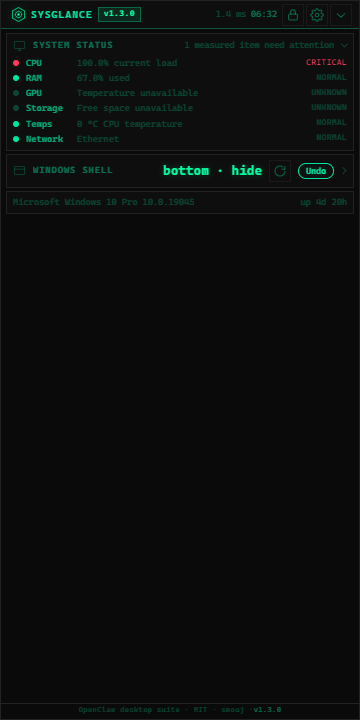
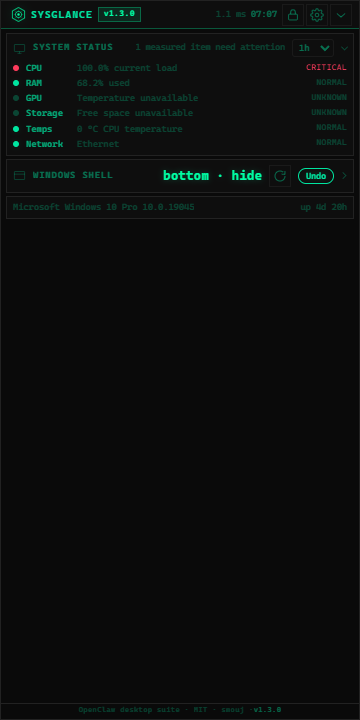
feat: expose selectable local history windows

diff --git a/src/main.js b/src/main.js
@@ -94,6 +94,8 @@ let slowFailedTicks = 0;
 const historyStore = new HistoryStore({ intervalMs: 5000, retentionMs: 24 * 60 * 60 * 1000 });
 const alertEngine = new AlertEngine();
 let lastAnalysisAt = 0;
+let historyWindowMs = 60 * 60 * 1000;
+const HISTORY_WINDOWS = new Set([60 * 1000, 5 * 60 * 1000, 30 * 60 * 1000, 60 * 60 * 1000, 6 * 60 * 60 * 1000, 24 * 60 * 60 * 1000]);
 
 // Renderer-side errors seen in self-test mode.
 const rendererErrors = [];
@@ -755,7 +757,7 @@ function composePayload() {
   }
   payload.health = evaluateHealth(payload);
   payload.alerts = alertEngine.snapshot();
-  payload.history = historyStore.snapshot(60 * 60 * 1000, payload.timestamp);
+  payload.history = historyStore.snapshot(historyWindowMs, payload.timestamp);
   return payload;
 }
 
@@ -832,6 +834,13 @@ function restartDataCollection() {
 // ── IPC ─────────────────────────────────────────────────
 // Every handler validates its arguments: the renderer is untrusted code.
 ipcMain.handle('get-system-data', () => composePayload());
+ipcMain.handle('history:setWindow', (_event, windowMs) => {
+  const value = Number(windowMs);
+  if (!HISTORY_WINDOWS.has(value)) return { ok: false, error: 'unsupported history window' };
+  historyWindowMs = value;
+  broadcastSystemData();
+  return { ok: true, windowMs: historyWindowMs };
+});
 ipcMain.handle('storage:analyzeHome', () => metrics.analyzeFolder(os.homedir(), { maxDepth: 2, maxEntries: 20000 }));
 ipcMain.handle('network:inspect', (_event, force) => metrics.getNetworkDetails(force === true));
 ipcMain.handle('get-app-info', () => ({
@@ -1303,7 +1312,7 @@ async function runSelfTest() {
     if (!Array.isArray(composed.displays) || !composed.displays.length) fail.push('display topology did not produce a display');
 
     const probe = await mainWindow.webContents.executeJavaScript(
-      'JSON.stringify({ api: !!window.sysglance, apiKeys: window.sysglance ? Object.keys(window.sysglance).length : 0, profilesApi: !!(window.sysglance && window.sysglance.profiles), processesApi: !!(window.sysglance && window.sysglance.processes), diagnosticsApi: !!(window.sysglance && window.sysglance.diagnostics), displayOptions: !!document.getElementById("display-options"), palette: !!document.getElementById("command-palette"), versionText: (document.getElementById("app-version") || {}).textContent || null, suiteFooter: ((document.getElementById("suite-footer") || {}).textContent || "").replace(/\\s+/g, " ").trim() || null, shellSection: !!document.getElementById("sec-shell"), cpu: (document.getElementById("cpu-load") || {}).textContent || null })',
+      'JSON.stringify({ api: !!window.sysglance, apiKeys: window.sysglance ? Object.keys(window.sysglance).length : 0, profilesApi: !!(window.sysglance && window.sysglance.profiles), processesApi: !!(window.sysglance && window.sysglance.processes), diagnosticsApi: !!(window.sysglance && window.sysglance.diagnostics), displayOptions: !!document.getElementById("display-options"), historyWindow: !!document.getElementById("history-window"), palette: !!document.getElementById("command-palette"), versionText: (document.getElementById("app-version") || {}).textContent || null, suiteFooter: ((document.getElementById("suite-footer") || {}).textContent || "").replace(/\\s+/g, " ").trim() || null, shellSection: !!document.getElementById("sec-shell"), cpu: (document.getElementById("cpu-load") || {}).textContent || null })',
       true
     );
     const state = JSON.parse(probe);
@@ -1313,6 +1322,7 @@ async function runSelfTest() {
     if (!state.processesApi) fail.push('process actions API missing from preload bridge');
     if (!state.diagnosticsApi) fail.push('diagnostics API missing from preload bridge');
     if (!state.displayOptions) fail.push('display selector missing from settings');
+    if (!state.historyWindow) fail.push('history window selector missing from status');
     if (!state.palette) fail.push('command palette missing from renderer');
     if (!state.shellSection) fail.push('shell panel did not inject');
     if (!/^v?\d+\.\d+\.\d+/.test(String(state.versionText))) fail.push('version not rendered in the UI');

diff --git a/src/renderer.js b/src/renderer.js
@@ -27,7 +27,7 @@
     memPct: $('mem-pct'), memBar: $('mem-bar'), memUsed: $('mem-used'), memSwap: $('mem-swap'),
     gpuLoad: $('gpu-load'), gpuName: $('gpu-name'), gpuBars: $('gpu-bars'),
     fsHome: $('fs-home'), fsFolders: $('fs-folders'), secFs: $('sec-filesystem'),
-    secHealth: $('sec-health'), healthSummary: $('health-summary'), healthList: $('health-list'),
+    secHealth: $('sec-health'), healthSummary: $('health-summary'), healthList: $('health-list'), historyWindow: $('history-window'),
     secGpu: $('sec-gpu'),
     diskList: $('disk-list'), diskActivity: $('disk-activity'), diskActivityValue: $('disk-activity-value'), storageAnalyze: $('storage-analyze'), storageAnalysis: $('storage-analysis'),
     netIface: $('net-iface'), netRx: $('net-rx'), netTx: $('net-tx'), netPeak: $('net-peak'), netSession: $('net-session'), netDetails: $('net-details'),
@@ -375,6 +375,11 @@
       setText(dom.storageAnalysis, details || ('No subfolders found' + (res.truncated ? ' · scan capped' : '')));
     }).catch(function (err) { setText(dom.storageAnalysis, err.message || 'Folder analysis unavailable'); }).finally(function () { dom.storageAnalyze.disabled = false; });
   });
+  if (dom.historyWindow && api.history) dom.historyWindow.addEventListener('change', function () {
+    api.history.setWindow(Number(dom.historyWindow.value)).then(function (res) {
+      if (!res || !res.ok) diagnosticsStatus((res && res.error) || 'History window unavailable', true);
+    }).catch(function (err) { diagnosticsStatus(err.message || 'History window unavailable', true); });
+  });
 
   // ── command palette ──────────────────────────────────
   var PALETTE_COMMANDS = [
@@ -673,6 +678,7 @@
     // Objective system status: each line is backed by a current measurement.
     renderHealth(data.health);
     if (data.history && data.history.series) {
+      if (dom.historyWindow && data.history.windowMs) dom.historyWindow.value = String(data.history.windowMs);
       renderSparkline(dom.cpuSparkline, data.history.series.cpu);
       renderSparkline(dom.memorySparkline, data.history.series.memory);
     }

diff --git a/scripts/verify-health.js b/scripts/verify-health.js
@@ -4,6 +4,8 @@
 const { HistoryStore } = require('../src/history');
 const { AlertEngine } = require('../src/alerts');
 const { evaluateHealth, GB } = require('../src/health');
+const fs = require('fs');
+const path = require('path');
 
 let passed = 0;
 let failed = 0;
@@ -24,6 +26,9 @@ history.record({ cpu: 90 }, 5000);
 check('ring buffer remains bounded', history.buffers.cpu.size <= history.capacity, history.buffers.cpu.size + '/' + history.capacity);
 check('window filters old points', history.series('cpu', 1500, 5000).length === 2);
 check('summary exposes latest average and peak', history.snapshot(5000, 5000).summary.cpu.peak === 90);
+const mainSource = fs.readFileSync(path.join(__dirname, '..', 'src', 'main.js'), 'utf8');
+const rendererSource = fs.readFileSync(path.join(__dirname, '..', 'src', 'renderer.js'), 'utf8');
+check('history exposes the six product windows through a validated bridge', mainSource.includes("history:setWindow") && mainSource.includes('HISTORY_WINDOWS') && rendererSource.includes('history-window'));
 
 const health = evaluateHealth({
   cpu: { load: 93, temp: 88 },

diff --git a/src/index.html b/src/index.html
@@ -218,7 +218,7 @@
 
   <div id="content" class="content">
     <div class="section health-section" id="sec-health">
-      <div class="section-header"><span class="section-icon"><svg class="ic" viewBox="0 0 24 24"><use href="#i-os"/></svg></span><span class="section-title">System status</span><span class="section-note" id="health-summary">Checking…</span></div>
+      <div class="section-header"><span class="section-icon"><svg class="ic" viewBox="0 0 24 24"><use href="#i-os"/></svg></span><span class="section-title">System status</span><span class="section-note" id="health-summary">Checking…</span><select id="history-window" class="history-window" aria-label="History window"><option value="60000">1m</option><option value="300000">5m</option><option value="1800000">30m</option><option value="3600000" selected>1h</option><option value="21600000">6h</option><option value="86400000">24h</option></select></div>
       <div id="health-list" class="health-list"></div>
     </div>
     <div class="section" id="sec-cpu">

diff --git a/src/styles.css b/src/styles.css
@@ -221,6 +221,7 @@ body.unlocked .ic-unlocked{display:block}
 .info-row-secondary{margin-top:3px}
 .info-subtitle{font-size:10px;color:var(--fg-2);white-space:nowrap;overflow:hidden;text-overflow:ellipsis;min-width:0}
 .info-small{font-size:9px;color:var(--fg-4);font-variant-numeric:tabular-nums;white-space:nowrap}
+.history-window{margin-left:auto;min-width:42px;padding:2px 2px;border:1px solid var(--line);border-radius:3px;background:var(--panel-2);color:var(--fg-3);font:inherit;font-size:9px}
 .storage-action{margin-top:6px;padding:4px 7px;border:1px solid var(--line);border-radius:5px;background:var(--panel-2);color:var(--fg-4);font:inherit;font-size:9px;cursor:pointer}
 .storage-action:hover{border-color:var(--accent-line);color:var(--accent)}
 .storage-action:disabled{opacity:.55;cursor:wait}

diff --git a/src/preload.js b/src/preload.js
@@ -110,6 +110,10 @@ contextBridge.exposeInMainWorld('sysglance', {
     analyzeHome: () => ipcRenderer.invoke('storage:analyzeHome')
   },
 
+  history: {
+    setWindow: (windowMs) => ipcRenderer.invoke('history:setWindow', windowMs)
+  },
+
   network: {
     inspect: (force) => ipcRenderer.invoke('network:inspect', force === true)
   },

diff --git a/docs/COMMERCIAL_BASELINE.md b/docs/COMMERCIAL_BASELINE.md
@@ -26,7 +26,7 @@ This is an evidence-based baseline. A feature is listed as implemented only when
 - Windows shell reads and controlled writes: taskbar position/auto-hide byte math, theme, accent, wallpaper, wallpaper gallery, special folders, Start settings and Explorer restart planning.
 - Folder opening is allow-listed to the six offered home folders; wallpaper inputs are validated before decode/registry/native-helper use.
 - Rotating local logs and uncaught exception/unhandled rejection logging.
-- Bounded session-local history (24-hour ring-buffer ceiling), one-hour CPU/RAM sparklines and objective System Status rows.
+- Bounded session-local history (24-hour ring-buffer ceiling), selectable 1m/5m/30m/1h/6h/24h CPU/RAM sparklines and objective System Status rows.
 - Local alert state machine with duration, cooldown and recovery transitions.
 - Local desktop profiles with atomic versioned persistence, import/export, configurable hotkeys and a separate confirmed shell-apply transaction.
 - Last-profile-apply undo for SysGlance-owned settings, a bounded shell-mutation undo journal, plus a narrow Ctrl+K navigation palette.

diff --git a/docs/PERFORMANCE_BASELINE.md b/docs/PERFORMANCE_BASELINE.md
@@ -51,8 +51,8 @@ the app is idle between polls. A second shorter sample measured 1,512 ms to
 window and 396.9 MB RSS; the spread shows why these are baselines, not release
 guarantees. The process tree was closed after each run.
 
-The final Windows installer from this audit is **111,917,247 bytes** with
[1 lines of base64/hex data omitted]
+The final Windows installer from this audit is **111,917,533 bytes** with
[1 lines of base64/hex data omitted]
 It was
 built in `dist-verify` with electron-builder 26.15.3 and includes the packaged
 native helper.
